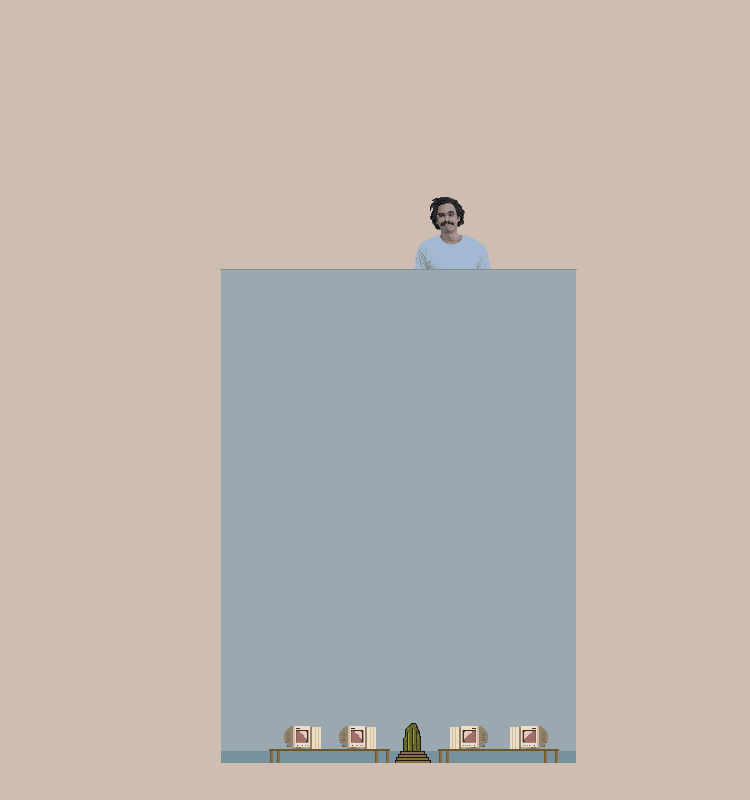
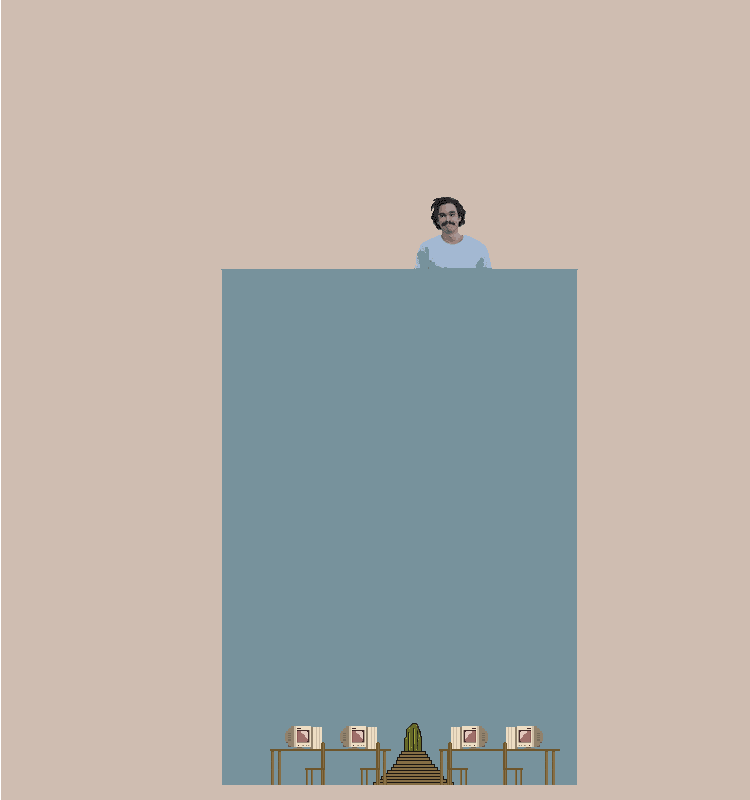
adding the new win screen file and clearing space so the player can run around on it

Changed region(s): [[0.276, 0.25, 0.7667, 1.0]]

diff --git a/js/OverworldMap.js b/js/OverworldMap.js
@@ -964,32 +964,32 @@ window.OverworldMaps = {
         [utils.asGridCoord(11,39)]: true,
         [utils.asGridCoord(35,39)]: true,
         //floor of ground
-        [utils.asGridCoord(8,41)]: true,
-        [utils.asGridCoord(9,41)]: true,
-        [utils.asGridCoord(10,41)]: true,
-        [utils.asGridCoord(11,41)]: true,
-        [utils.asGridCoord(12,41)]: true,
-        [utils.asGridCoord(13,41)]: true,
-        [utils.asGridCoord(14,41)]: true,
-        [utils.asGridCoord(15,41)]: true,
-        [utils.asGridCoord(16,41)]: true,
-        [utils.asGridCoord(17,41)]: true,
-        [utils.asGridCoord(18,41)]: true,
-        [utils.asGridCoord(19,41)]: true,
-        [utils.asGridCoord(20,41)]: true,
-        [utils.asGridCoord(21,41)]: true,
-        [utils.asGridCoord(22,41)]: true,
-        [utils.asGridCoord(23,41)]: true,
-        [utils.asGridCoord(24,41)]: true,
-        [utils.asGridCoord(25,41)]: true,
-        [utils.asGridCoord(26,41)]: true,
-        [utils.asGridCoord(27,41)]: true,
-        [utils.asGridCoord(28,41)]: true,
-        [utils.asGridCoord(29,41)]: true,
-        [utils.asGridCoord(30,41)]: true,
-        [utils.asGridCoord(31,41)]: true,
-        [utils.asGridCoord(32,41)]: true,
-        [utils.asGridCoord(33,41)]: true,
+        [utils.asGridCoord(8,42)]: true,
+        [utils.asGridCoord(9,42)]: true,
+        [utils.asGridCoord(10,42)]: true,
+        [utils.asGridCoord(11,42)]: true,
+        [utils.asGridCoord(12,42)]: true,
+        [utils.asGridCoord(13,42)]: true,
+        [utils.asGridCoord(14,42)]: true,
+        [utils.asGridCoord(15,42)]: true,
+        [utils.asGridCoord(16,42)]: true,
+        [utils.asGridCoord(17,42)]: true,
+        [utils.asGridCoord(18,42)]: true,
+        [utils.asGridCoord(19,42)]: true,
+        [utils.asGridCoord(20,42)]: true,
+        [utils.asGridCoord(21,42)]: true,
+        [utils.asGridCoord(22,42)]: true,
+        [utils.asGridCoord(23,42)]: true,
+        [utils.asGridCoord(24,42)]: true,
+        [utils.asGridCoord(25,42)]: true,
+        [utils.asGridCoord(26,42)]: true,
+        [utils.asGridCoord(27,42)]: true,
+        [utils.asGridCoord(28,42)]: true,
+        [utils.asGridCoord(29,42)]: true,
+        [utils.asGridCoord(30,42)]: true,
+        [utils.asGridCoord(31,42)]: true,
+        [utils.asGridCoord(32,42)]: true,
+        [utils.asGridCoord(33,42)]: true,
       },
       cutsceneSpaces: {
         [utils.asGridCoord(24,39)]: [
@@ -999,7 +999,7 @@ window.OverworldMaps = {
             ]
           }
         ],
-        [utils.asGridCoord(21,39)]: [
+        [utils.asGridCoord(21,40)]: [
           {
             events: [
               { who: 'hero', type: 'stand', direction: 'up'},
@@ -1008,7 +1008,7 @@ window.OverworldMaps = {
             ]
           }
         ],
-        [utils.asGridCoord(18,39)]: [
+        [utils.asGridCoord(18,40)]: [
           {
             events: [
               { who: 'hero', type: 'stand', direction: 'up'},

diff --git a/index.html b/index.html
@@ -43,7 +43,7 @@
     <button id="resetButton">Reset Game</button>
     <button id="previousscreen">&lt;</button>
     <button id="nextscreen">&gt;</button>
-    <img id="screen3Image" class="screen3-image" src="/media/maps/pixle-portfolio-game-shack.png" style="display: none;" />
+    <img id="screen3Image" class="screen3-image" src="/media/maps/canvas-platformer-win-screen.png" style="display: none;" />
     <script src="/js/platformer.js"></script>
   </div>
 

diff --git a/js/overworld.js b/js/overworld.js
@@ -124,7 +124,7 @@ startMap(mapConfig) {
 
 
   init() {
-    this.startMap(window.OverworldMaps.PlatformerMap)
+    this.startMap(window.OverworldMaps.MainMap)
 
     this.bindActionInput()
     this.bindHeroPositionCheck()
